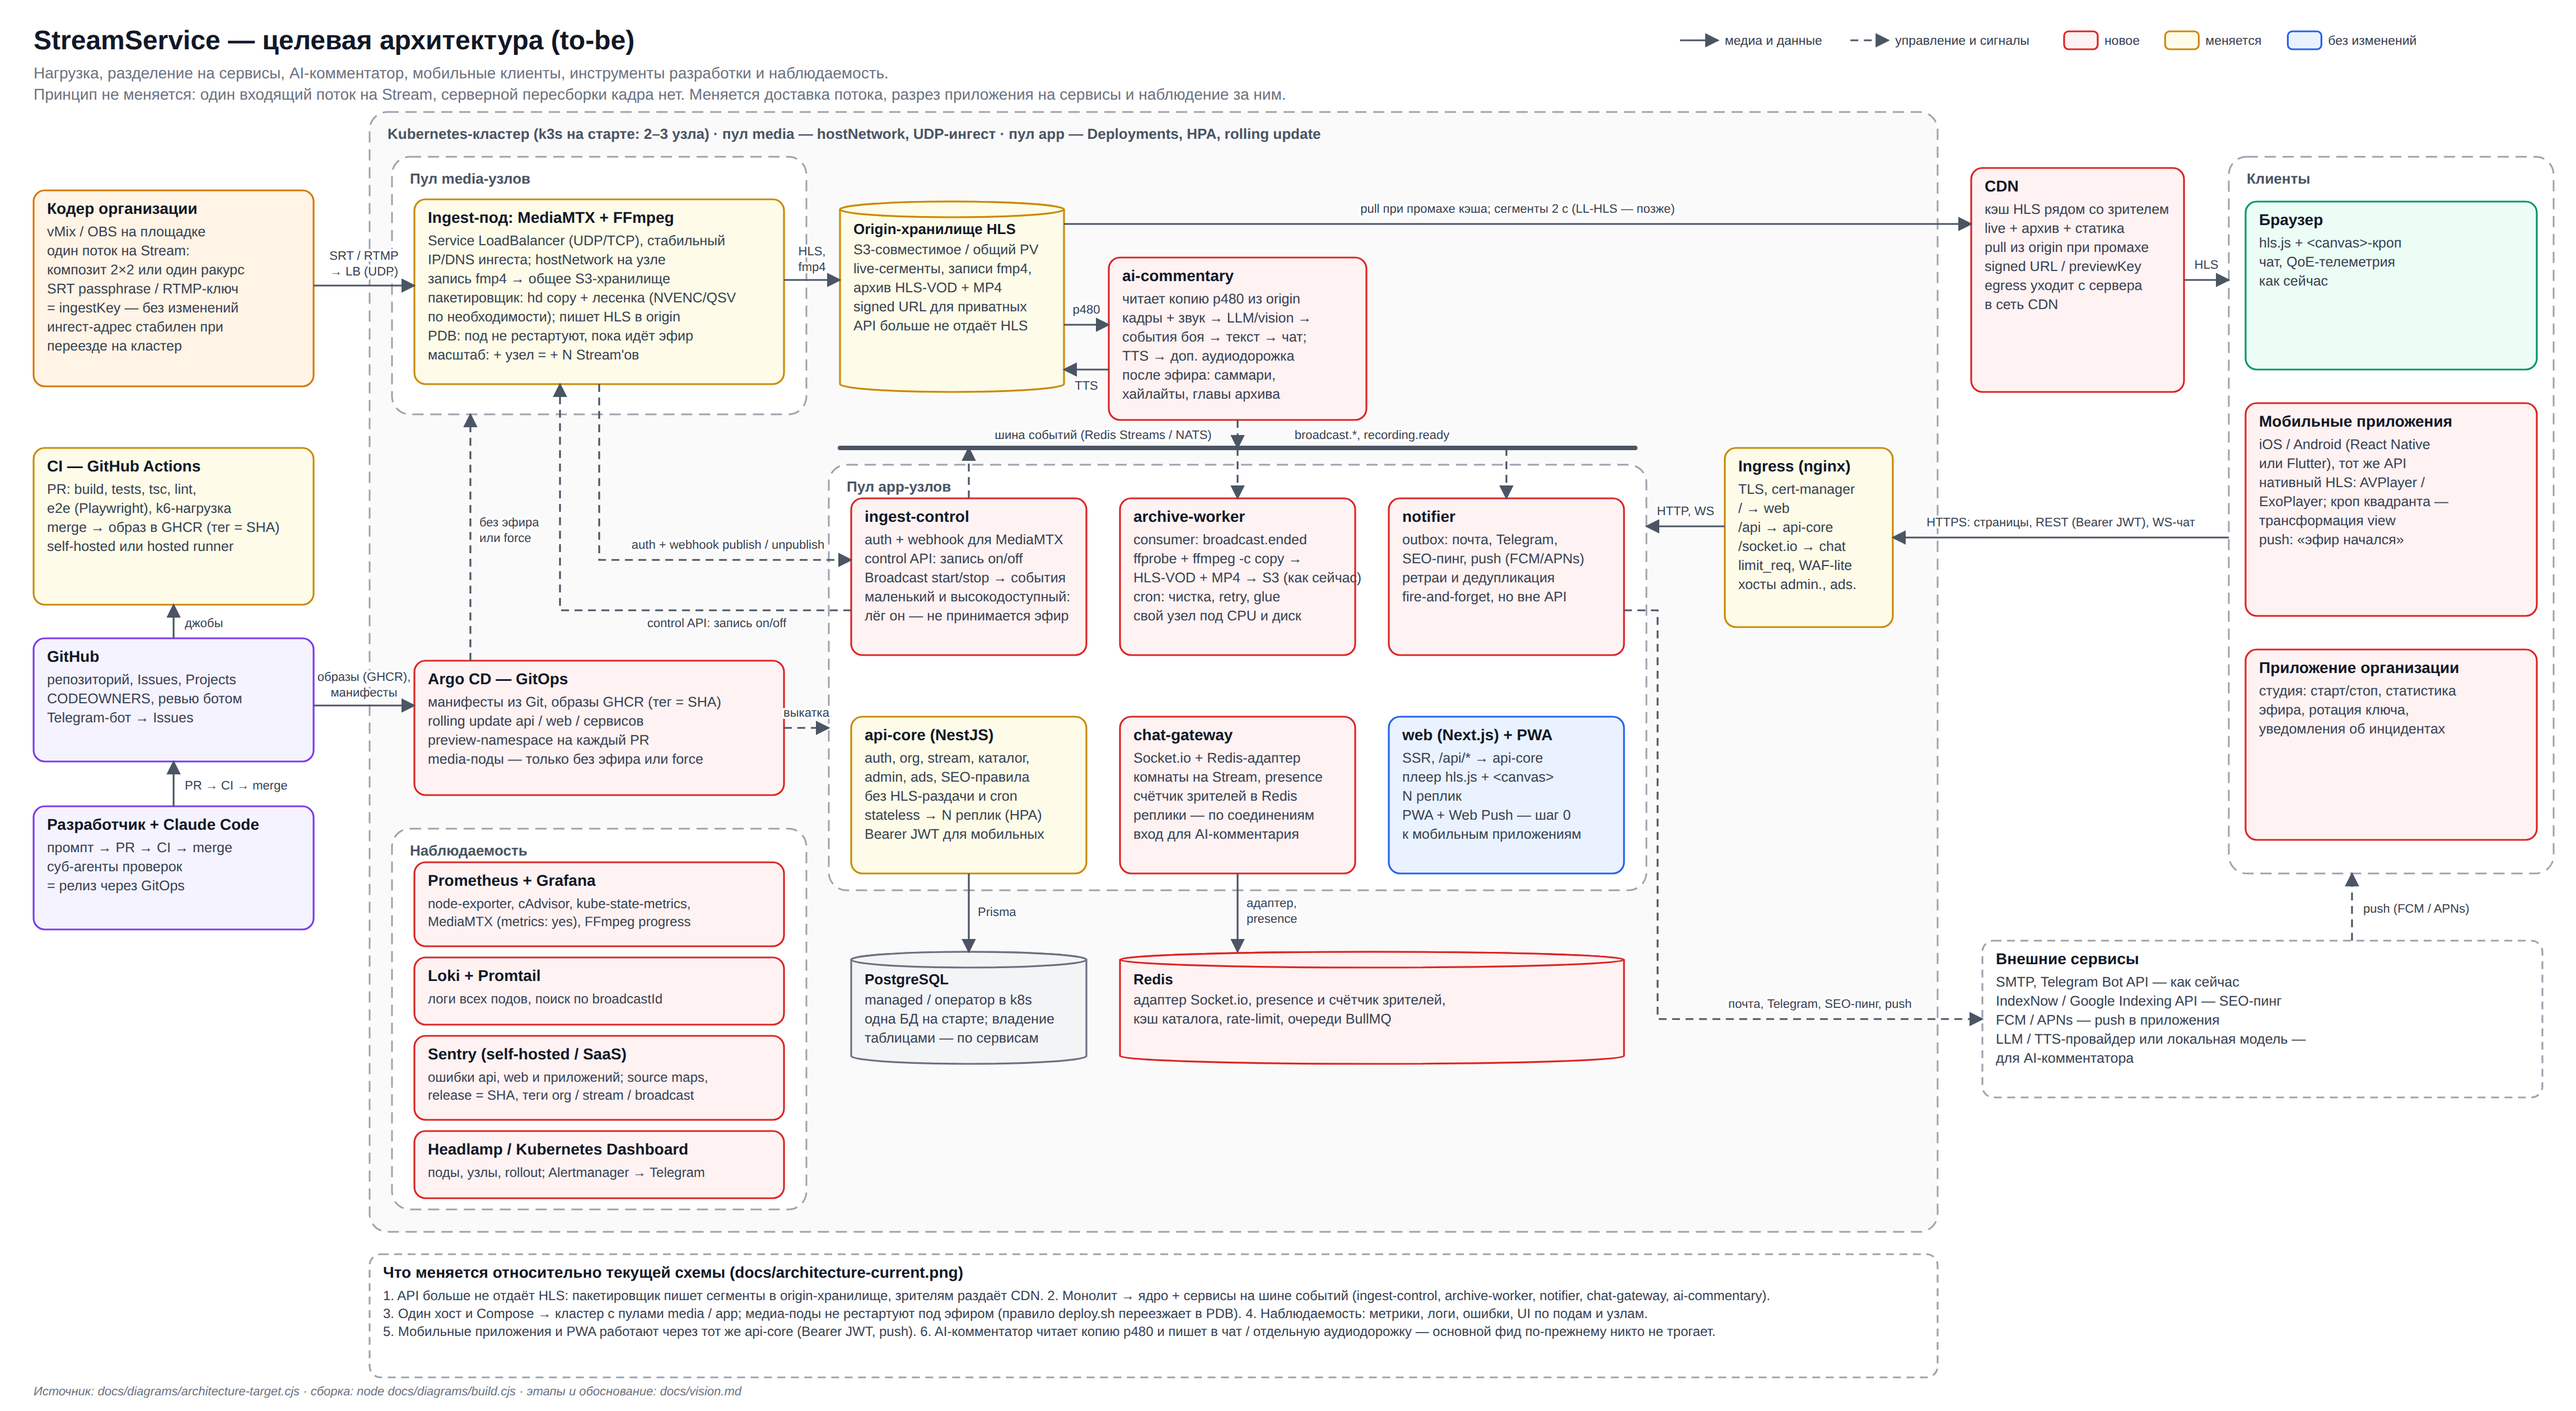
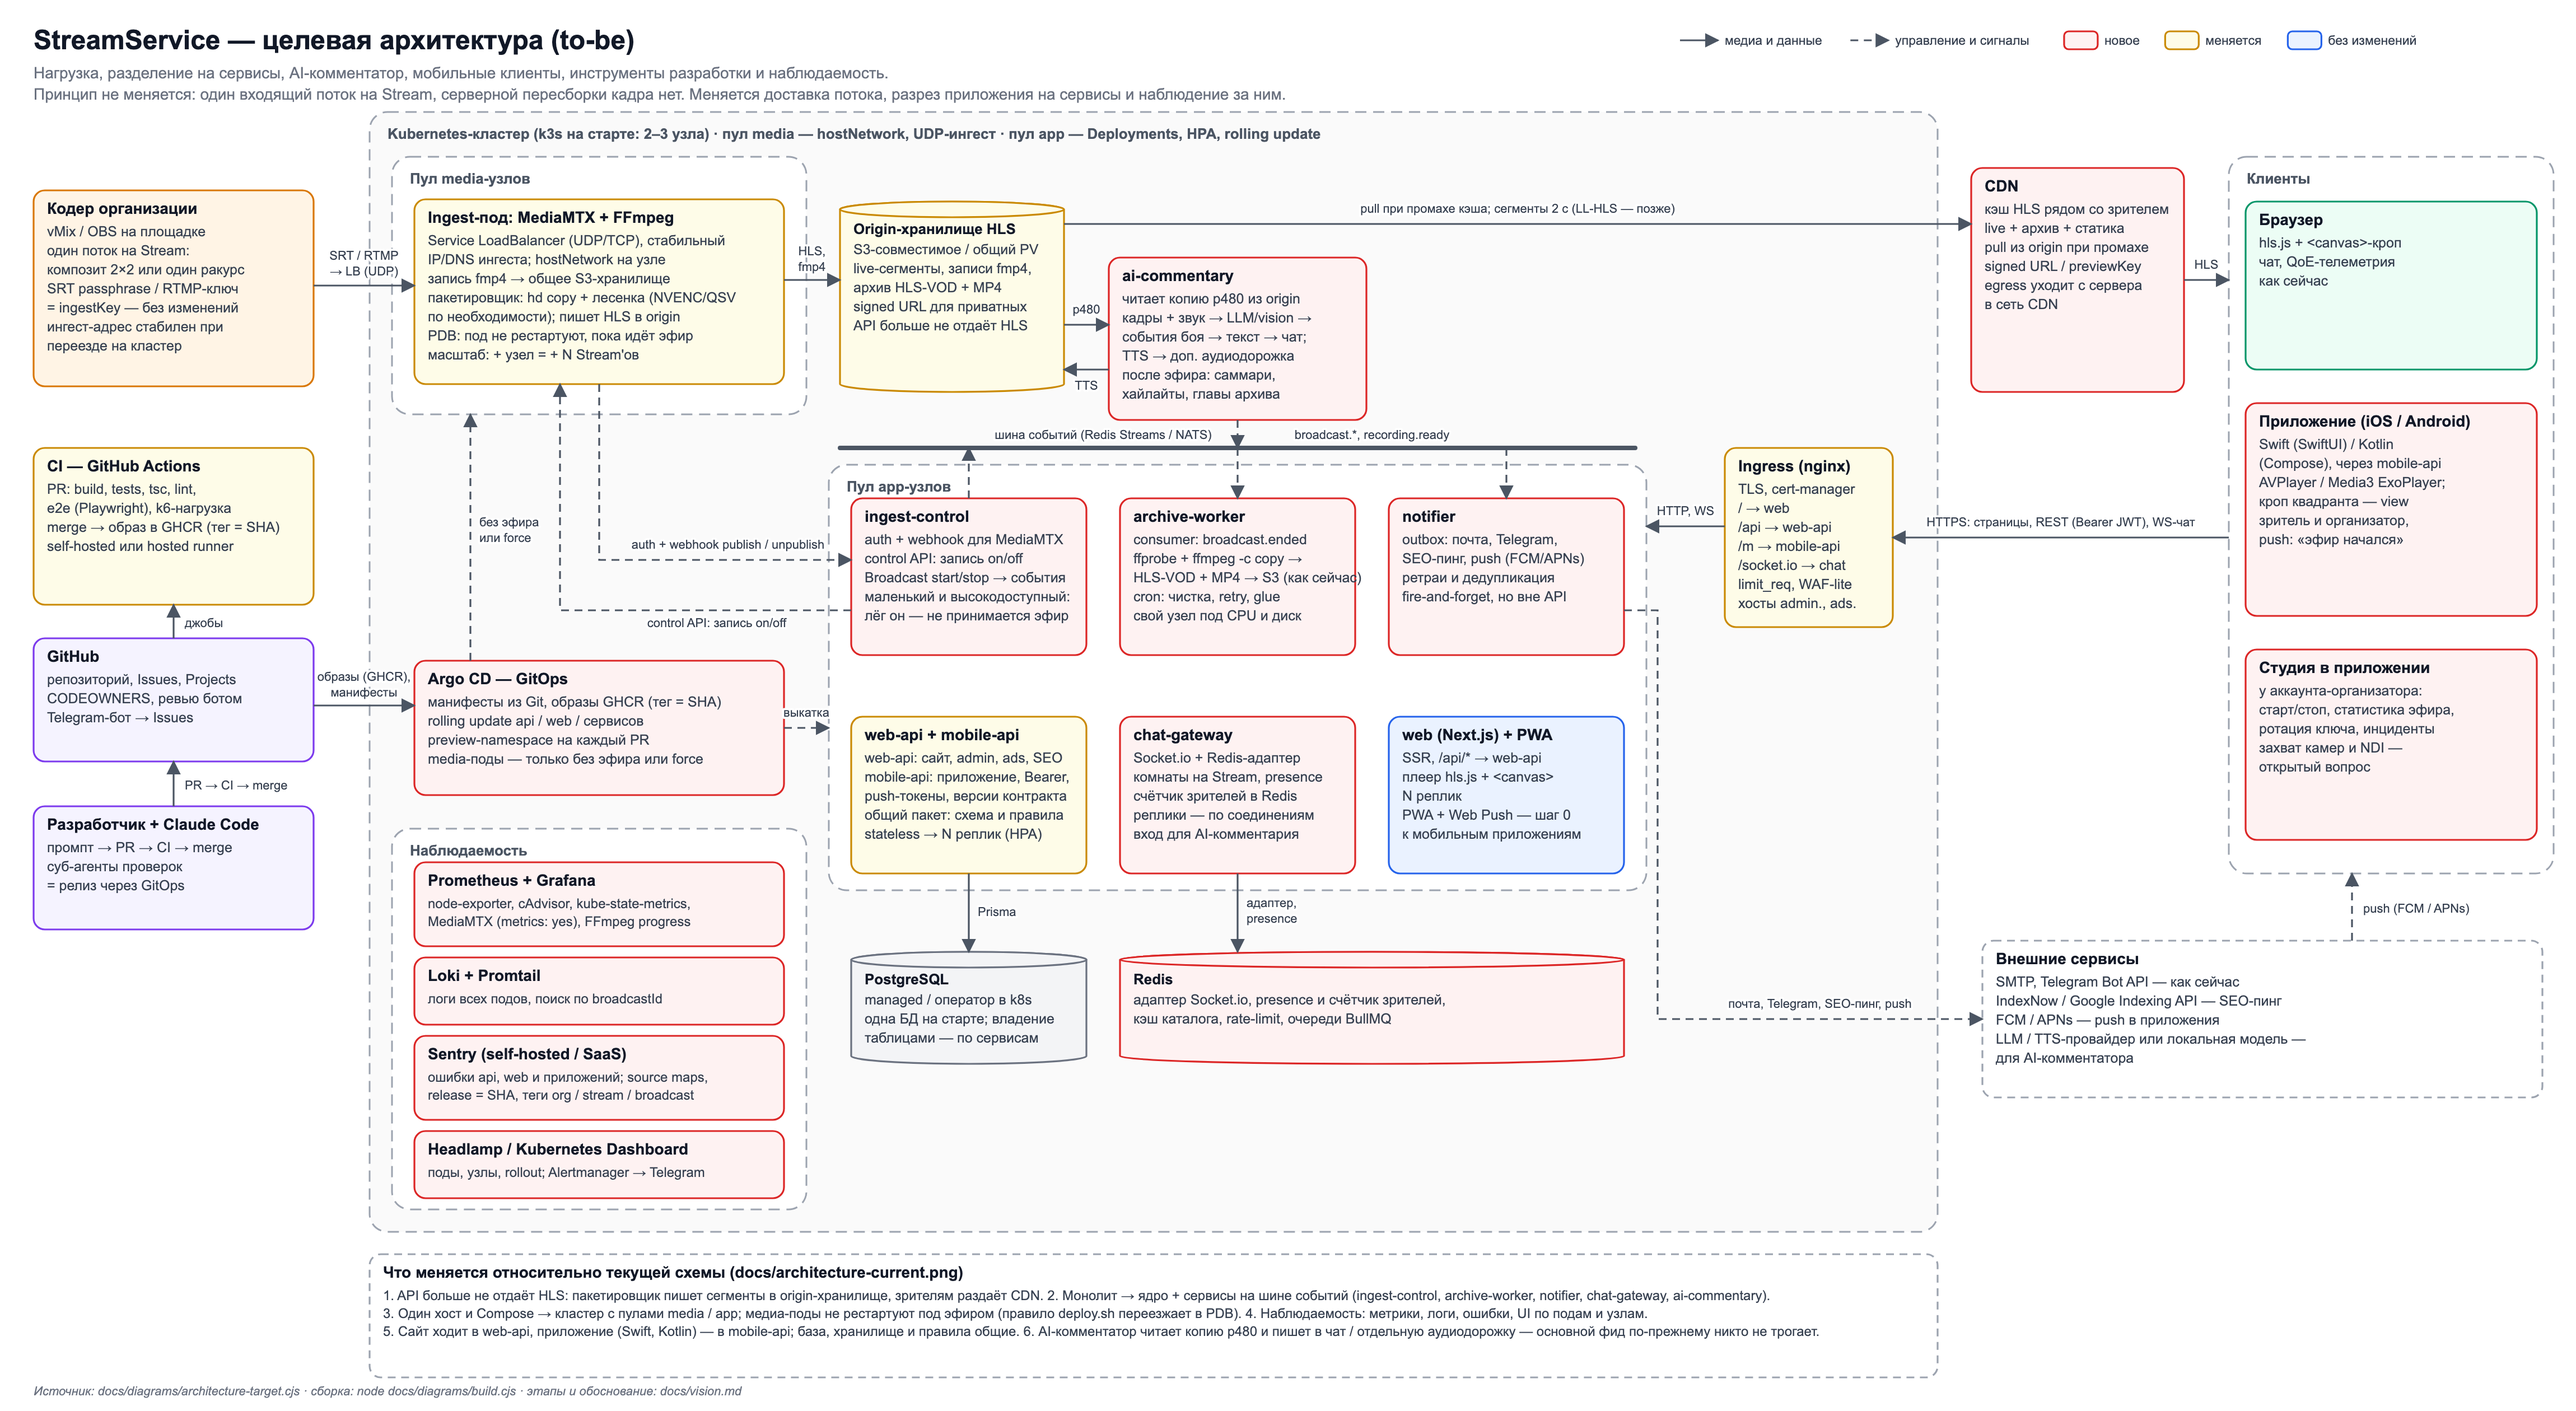
docs: отдельные бэкенды сайта и приложения поверх общей базы и пакета правил; приложение на Swift и Kotlin

diff --git a/docs/development-principles.md b/docs/development-principles.md
@@ -11,7 +11,9 @@
 
 **Веб — эталон.** Сайт liga-live.ru работает в продакшне, и всё, что на нём
 есть, зафиксировано: это базовый набор функций и поведения платформы.
-Приложение для iOS и Android повторяет этот набор, а не придумывает свой.
+Приложение повторяет этот набор, а не придумывает свой. Приложение
+нативное: iOS — Swift (SwiftUI, AVPlayer), Android — Kotlin (Jetpack
+Compose, Media3/ExoPlayer).
 
 Отсюда три правила:
 
@@ -32,25 +34,33 @@
 | Шаг | Что делается | Результат |
 |---|---|---|
 | 1 | Спека: сценарий, требования, модель данных | Документ в `specs/`, коды требований в SRS |
-| 2 | API и миграции | Эндпоинты, которыми будут пользоваться оба клиента |
-| 3 | Веб | Функция работает на сайте в продакшне |
-| 4 | Приложение | Тот же сценарий на iOS и Android поверх того же API |
+| 2 | Общий пакет: схема, миграции, правила | Модель данных и правила, одинаковые для обоих бэкендов |
+| 3 | `web-api` и сайт | Функция работает на сайте в продакшне |
+| 4 | `mobile-api` и приложение | Тот же сценарий на iOS и Android поверх тех же правил |
 | 5 | Проверка паритета | Поведение в приложении сверено с сайтом |
 
-Шаги 3 и 4 могут идти параллельно у разных команд, если API готово и
-сценарий на вебе согласован. Готовой функция считается, когда она есть на
+Шаги 3 и 4 могут идти параллельно у разных команд, если общий пакет готов
+и сценарий на вебе согласован. Готовой функция считается, когда она есть на
 обоих клиентах.
 
 ---
 
 ## 3. Что из этого следует
 
-- **Одно API.** Оба клиента ходят в одни и те же эндпоинты; отдельного
-  слоя для приложения нет. Если приложению нужно то, чего нет у веба, это
-  повод сначала решить, нужно ли это вебу.
-- **Правила живут на бэкенде.** Доступ к закрытым потокам, видимость
-  каналов и личных страниц, индексация, роли — решает сервер. Клиенты их
-  не дублируют и не проверяют сами.
+- **Свой бэкенд у каждого клиента, общее — вынесено.** Сайт ходит в
+  `web-api`, приложение — в `mobile-api`. Так команды не ждут чужую сборку
+  и выкладку, а контракт приложения версионируется отдельно: выпущенную в
+  стор версию нельзя обновить принудительно, и `mobile-api` поддерживает
+  несколько версий сразу. PostgreSQL, S3-хранилище, Redis, шина событий и
+  общие сервисы (приём видео, обработка записей, чат, уведомления) — одни на
+  оба бэкенда.
+- **Правила — в одном общем пакете.** Схема Prisma, миграции, доступ к
+  закрытым потокам, видимость каналов и личных страниц, индексация, роли и
+  подписки — один пакет монорепо, его импортируют оба бэкенда. Два бэкенда
+  не значат две копии правил: разъехавшись, они показали бы сайту и
+  приложению разное. Клиенты правила не дублируют и не проверяют сами.
+- **Если приложению нужно то, чего нет у веба**, это повод сначала решить,
+  нужно ли это вебу, а не добавлять функцию только в `mobile-api`.
 - **Клиентские константы — копия веба.** То, что по природе живёт на
   клиенте (карта квадрантов композита, раскладки нескольких потоков),
   в приложении повторяет веб один в один и сверяется с ним при изменении.
